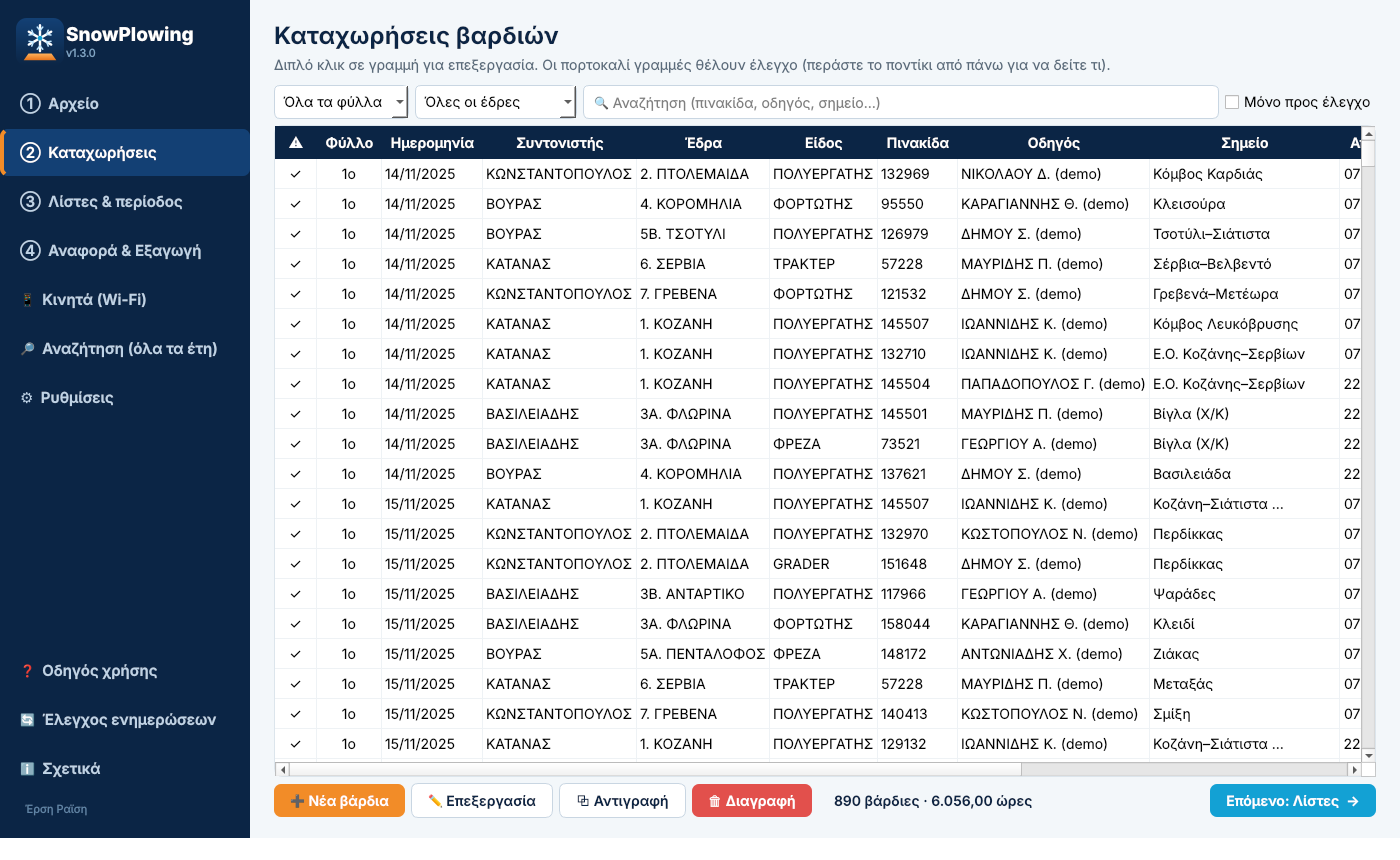
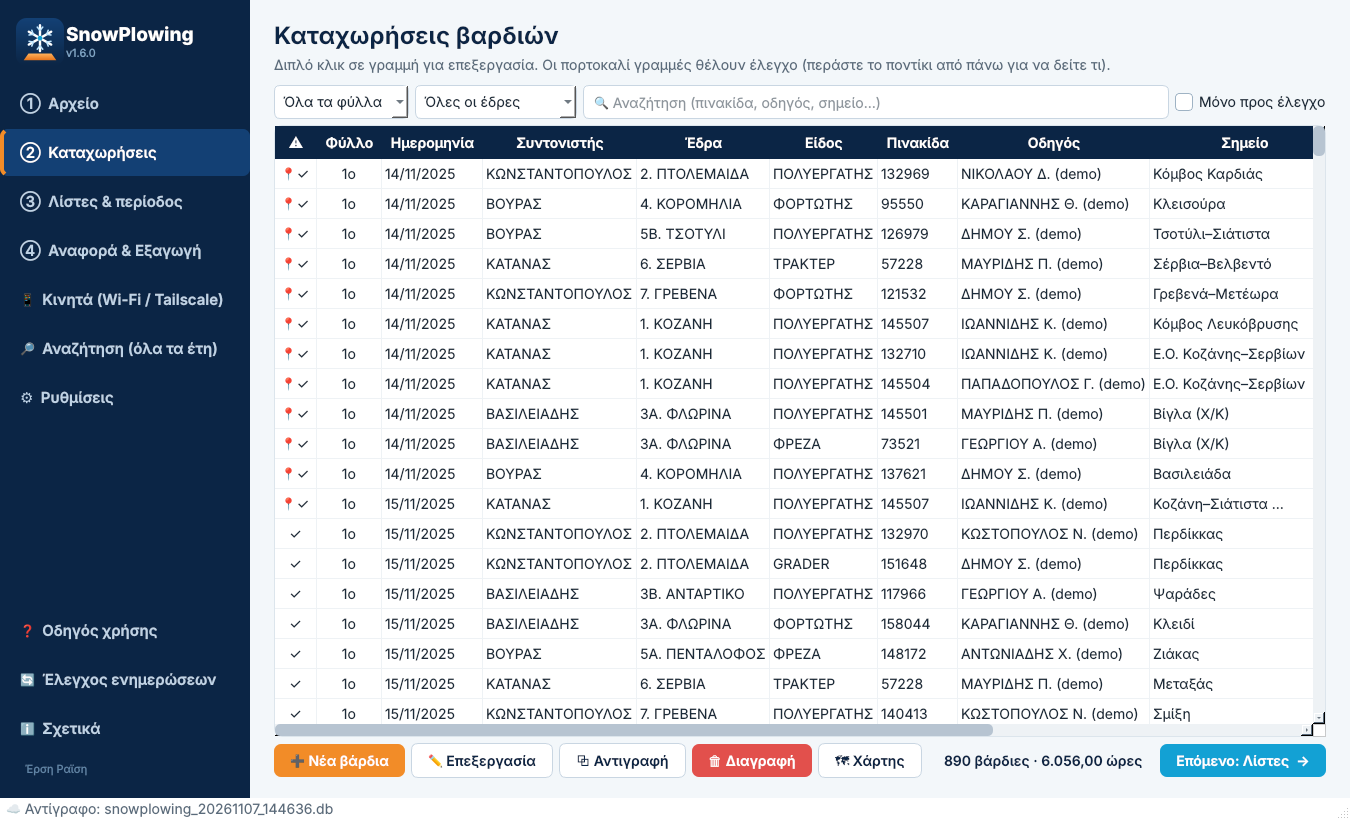
Docs for v1.6.0

diff --git a/README.md b/README.md
@@ -20,10 +20,11 @@
 - ✍ **Καταχώρηση βαρδιών για αρχάριους**: η πινακίδα συμπληρώνει μόνη της είδος και έδρα, η έδρα τον ανάδοχο
 - 🔍 **Αυτόματος έλεγχος λαθών**: άκυρες ώρες, λάθος πινακίδα ή είδος, επικαλύψεις βαρδιών, εκτός περιόδου…
 - 📄 **Αναφορά PDF**: σύνοψη ανά έδρα και είδος, γραφήματα, ώρες ανά μηχάνημα, κόστος με ΦΠΑ, υπογραφές
+- 🧾 **Πιστοποίηση αναδόχου για πληρωμή**: ώρες × €/ώρα, ΦΠΑ, ποσό ολογράφως, υπογραφές — ανά μήνα, τρίμηνο ή σεζόν, με αυτόματη αρίθμηση
 - 📊 **Εξαγωγή Excel** στην ίδια μορφή, με τύπους, λίστες επιλογών και στήλη «Έλεγχος»
-- 🗄 **Βάση δεδομένων** με όλες τις χρονιές και καθημερινά αντίγραφα ασφαλείας
+- 🗄 **Βάση δεδομένων** με όλες τις χρονιές και καθημερινά αντίγραφα ασφαλείας — και **☁ στο OneDrive / Google Drive / Dropbox**
 - 🔎 **Αναζήτηση σε όλα τα έτη**: όνομα, πινακίδα, σημείο, ημερομηνία, αριθμός σύμβασης…
-- 📱 **Καταχώρηση από κινητό** μέσω Wi-Fi ή **Tailscale από παντού (4G)** — QR code + PIN, χωρίς εφαρμογή
+- 📱 **Καταχώρηση από κινητό** μέσω Wi-Fi ή **Tailscale από παντού (4G)** — QR code + PIN, χωρίς εφαρμογή, με **📍 θέση GPS** και χάρτη βαρδιών
 - 🎨 **Φωτεινό / σκοτεινό θέμα**, αυτόματα όπως τα Windows
 - 💶 **Κόστος** με τιμή ανά ώρα για κάθε είδος μηχανήματος
 - 🔄 **Αυτόματες ενημερώσεις**: το πρόγραμμα βρίσκει μόνο του τη νέα έκδοση
@@ -72,6 +73,9 @@
 Δεν συνδέεται; Ο υπολογιστής ανοιχτός με το SnowPlowing σε λειτουργία · Tailscale «Connected» και στα δύο ·
 πατήστε «🛡 Άνοιγμα θύρας στο Τείχος». Για συναδέλφους με άλλο λογαριασμό: login.tailscale.com → Machines → ⋯ → **Share**.
 
+**📍 Θέση GPS (προαιρετικά):** το κινητό δίνει θέση μόνο σε ασφαλή σύνδεση (https). Μία φορά: login.tailscale.com → **DNS** →
+**Enable HTTPS**. Μετά στο SnowPlowing επιλέξτε **🔒 HTTPS + GPS** — το κινητό θα ρωτήσει «Να επιτρέπεται η τοποθεσία;» → **Ναι**.
+
 ## Στιγμιότυπα
 
 | | |
@@ -83,12 +87,13 @@
 | <img src="screenshots/08_kinita.png" width="430"><br>Σύνδεση κινητών: Wi-Fi ή Tailscale (QR + PIN) | <img src="screenshots/16_forma_kinitou.png" width="200"><br>Φόρμα στο κινητό |
 | <img src="screenshots/05_times.png" width="430"><br>Τιμές €/ώρα & ΦΠΑ | <img src="screenshots/06_symvaseis.png" width="430"><br>Συμβάσεις |
 | <img src="screenshots/10_rythmiseis.png" width="430"><br>Ρυθμίσεις & βάση δεδομένων | <img src="screenshots/11_eisagogi.png" width="430"><br>Εισαγωγή με προεπισκόπηση |
-| <img src="screenshots/17_skoteino_thema.png" width="430"><br>Σκοτεινό θέμα | |
+| <img src="screenshots/18_pistopoiisi_pdf.png" width="430"><br>Πιστοποίηση αναδόχου (PDF) | <img src="screenshots/03_kataxoriseis.png" width="430"><br>Καταχωρήσεις με 📍 GPS |
+| <img src="screenshots/19_cloud_antigrafa.png" width="430"><br>Αντίγραφα στο cloud | <img src="screenshots/17_skoteino_thema.png" width="430"><br>Σκοτεινό θέμα |
 
 ## Συχνές ερωτήσεις
 
 **Πού αποθηκεύονται τα δεδομένα;** Στον υπολογιστή σας, σε `%APPDATA%\SnowPlowing\snowplowing.db`. Δεν στέλνεται τίποτα στο internet.
-Από ⚙ Ρυθμίσεις μπορείτε να μεταφέρετε τη βάση π.χ. σε OneDrive.
+Από ⚙ Ρυθμίσεις → «☁ Φάκελος cloud…» μπαίνει και καθημερινό αντίγραφο στο OneDrive / Google Drive, για να μη χαθεί τίποτα αν χαλάσει ο υπολογιστής.
 
 **Πώς βάζω παλιές χρονιές;** ⚙ Ρυθμίσεις → «Εισαγωγή βαρδιών και λιστών» → διαλέξτε το Excel κάθε χρονιάς.
 
